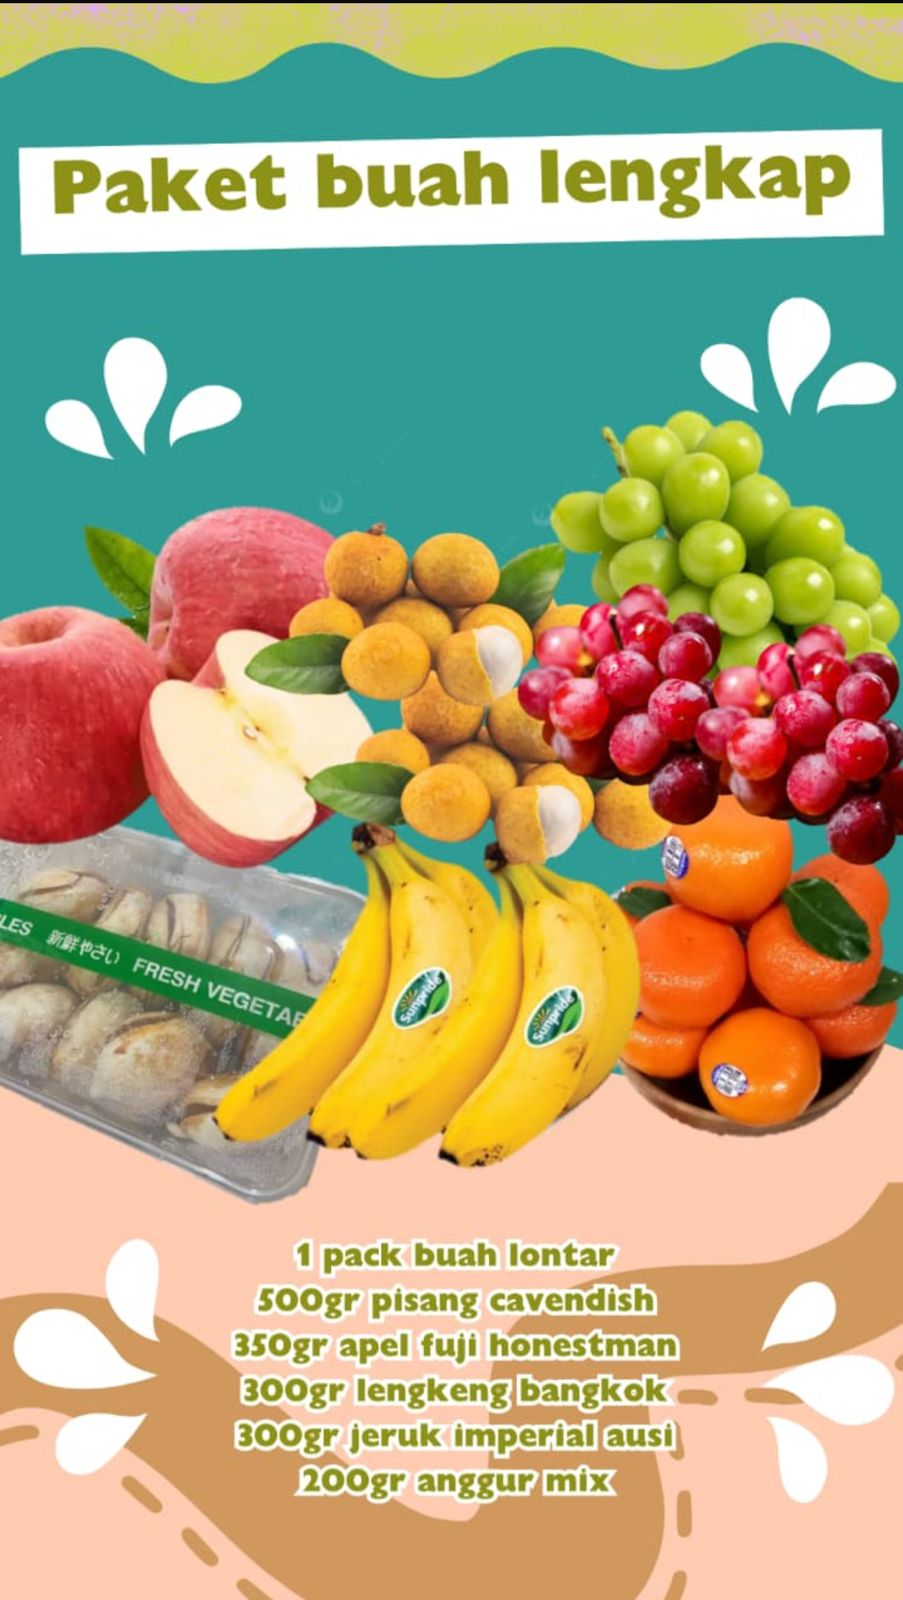
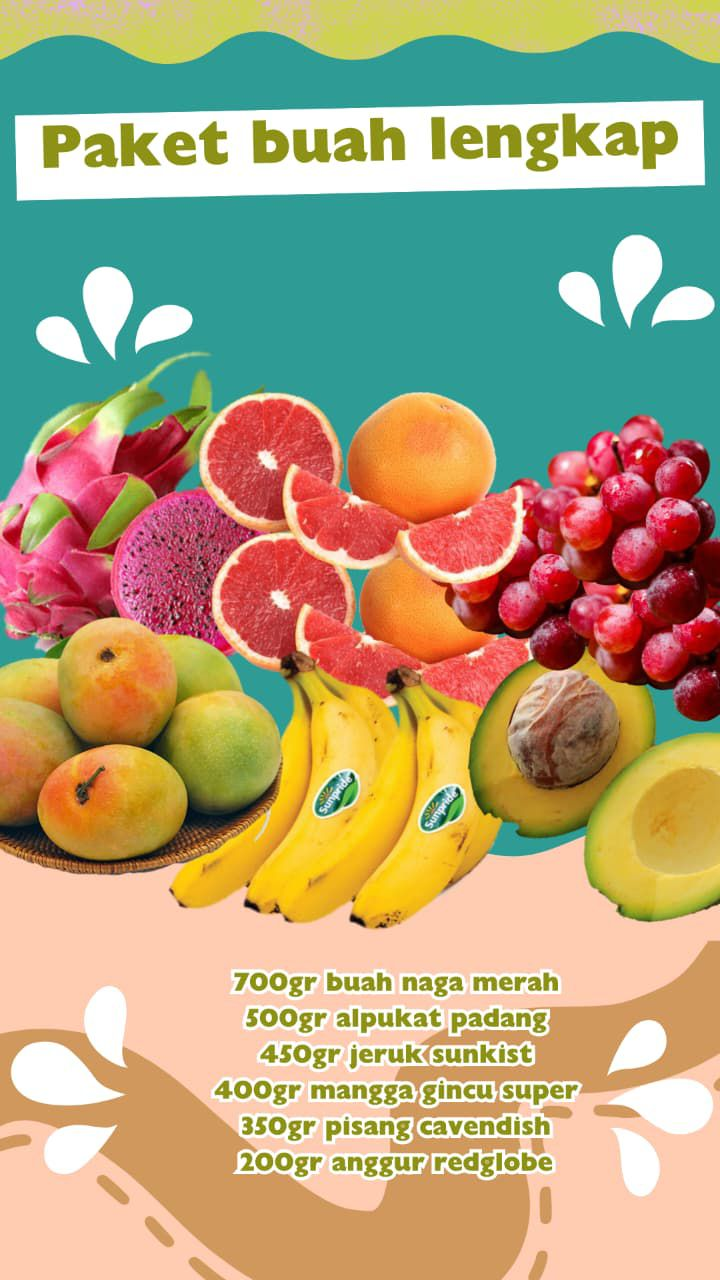
Add files via upload

diff --git a/index.html b/index.html
@@ -733,6 +733,71 @@
         <a href="https://wa.me/6281122332414?text=Halo%2C%20saya%20ingin%20memesan%20Jeruk%20Wogan%20Honestman" target="_blank" rel="noopener" class="btn-order" onclick="showNotification('Jeruk Wogan Honestman')">Order Sekarang</a>
       </div>
     </section>
+	
+	<!-- Card: Blueberry -->
+    <section class="card bg-white shadow-md overflow-hidden flex flex-col">
+      <img 
+        src="Blueberry.jpeg" 
+        alt="Blueberry" 
+        loading="lazy" class="w-full h-48 object-cover" onerror="this.onerror=null;this.src='https://placehold.co/600x400/png?text=Image+Not+Available';" />
+      <div class="p-4 flex flex-col flex-grow">
+        <h2 class="font-bold text-xl text-green-800 mb-2">Blueberry</h2>
+        <p class="text-green-700 flex-grow mb-4 text-sm">Rp 38.000 / pack (berat 125gr)</p>
+        <a href="https://wa.me/6281122332414?text=Halo%2C%20saya%20ingin%20memesan%20Blueberry" target="_blank" rel="noopener" class="btn-order" onclick="showNotification('Blueberry')">Order Sekarang</a>
+      </div>
+    </section>
+	
+	<!-- Card: Anggur Shine Muscat Buket Premium -->
+    <section class="card bg-white shadow-md overflow-hidden flex flex-col">
+      <img 
+        src="Anggur Shine Muscat Buket Premium.jpeg" 
+        alt="Anggur Shine Muscat Buket Premium" 
+        loading="lazy" class="w-full h-48 object-cover" onerror="this.onerror=null;this.src='https://placehold.co/600x400/png?text=Image+Not+Available';" />
+      <div class="p-4 flex flex-col flex-grow">
+        <h2 class="font-bold text-xl text-green-800 mb-2">Anggur Shine Muscat Buket Premium</h2>
+        <p class="text-green-700 flex-grow mb-4 text-sm">Rp 72.000 / kg</p>
+        <a href="https://wa.me/6281122332414?text=Halo%2C%20saya%20ingin%20memesan%20Anggur%20Shine%20Muscat%20Buket%20Premium" target="_blank" rel="noopener" class="btn-order" onclick="showNotification('Anggur Shine Muscat Buket Premium')">Order Sekarang</a>
+      </div>
+    </section>
+	
+	<!-- Card: Anggur Shine Muscat Sekat Premium -->
+    <section class="card bg-white shadow-md overflow-hidden flex flex-col">
+      <img 
+        src="Anggur Shine Muscat Sekat Premium.jpeg" 
+        alt="Anggur Shine Muscat Sekat Premium" 
+        loading="lazy" class="w-full h-48 object-cover" onerror="this.onerror=null;this.src='https://placehold.co/600x400/png?text=Image+Not+Available';" />
+      <div class="p-4 flex flex-col flex-grow">
+        <h2 class="font-bold text-xl text-green-800 mb-2">Anggur Shine Muscat Sekat Premium</h2>
+        <p class="text-green-700 flex-grow mb-4 text-sm">Rp 70.000 / kg</p>
+        <a href="https://wa.me/6281122332414?text=Halo%2C%20saya%20ingin%20memesan%20Anggur%20Shine%20Muscat%20Sekat%20Premium" target="_blank" rel="noopener" class="btn-order" onclick="showNotification('Anggur Shine Muscat Sekat Premium')">Order Sekarang</a>
+      </div>
+    </section>
+	
+	<!-- Card: Mangga Gincu Keranjang -->
+    <section class="card bg-white shadow-md overflow-hidden flex flex-col">
+      <img 
+        src="Mangga Gincu Keranjang.jpeg" 
+        alt="Mangga Gincu Keranjang" 
+        loading="lazy" class="w-full h-48 object-cover" onerror="this.onerror=null;this.src='https://placehold.co/600x400/png?text=Image+Not+Available';" />
+      <div class="p-4 flex flex-col flex-grow">
+        <h2 class="font-bold text-xl text-green-800 mb-2">Mangga Gincu Keranjang</h2>
+        <p class="text-green-700 flex-grow mb-4 text-sm">Rp 132.000 / 3kg</p>
+        <a href="https://wa.me/6281122332414?text=Halo%2C%20saya%20ingin%20memesan%20Mangga%20Gincu%20Keranjang" target="_blank" rel="noopener" class="btn-order" onclick="showNotification('Mangga Gincu Keranjang')">Order Sekarang</a>
+      </div>
+    </section>
+	
+	<!-- Card: Mangga Gincu Super -->
+    <section class="card bg-white shadow-md overflow-hidden flex flex-col">
+      <img 
+        src="Mangga Gincu Super.jpeg" 
+        alt="Mangga Gincu Super" 
+        loading="lazy" class="w-full h-48 object-cover" onerror="this.onerror=null;this.src='https://placehold.co/600x400/png?text=Image+Not+Available';" />
+      <div class="p-4 flex flex-col flex-grow">
+        <h2 class="font-bold text-xl text-green-800 mb-2">Mangga Gincu Super</h2>
+        <p class="text-green-700 flex-grow mb-4 text-sm">Rp 48.000 / kg</p>
+        <a href="https://wa.me/6281122332414?text=Halo%2C%20saya%20ingin%20memesan%20Mangga%20Gincu%20Super" target="_blank" rel="noopener" class="btn-order" onclick="showNotification('Mangga Gincu Super')">Order Sekarang</a>
+      </div>
+    </section>
 
 	<!-- Card: Anggur Sweet Saphire  Anggur Jari -->
     <section class="card bg-white shadow-md overflow-hidden flex flex-col">
@@ -744,6 +809,71 @@
         <h2 class="font-bold text-xl text-green-800 mb-2">Anggur Sweet Saphire / Anggur Jari</h2>
         <p class="text-green-700 flex-grow mb-4 text-sm">Rp 48.000 / pack</p>
         <a href="https://wa.me/6281122332414?text=Halo%2C%20saya%20ingin%20memesan%20Anggur%20Sweet%20Saphire" target="_blank" rel="noopener" class="btn-order" onclick="showNotification('Anggur Sweet Saphire')">Order Sekarang</a>
+      </div>
+    </section>
+	
+	<!-- Card: Plum Hijau -->
+    <section class="card bg-white shadow-md overflow-hidden flex flex-col">
+      <img 
+        src="Plum Hijau.jpeg" 
+        alt="Plum Hijau" 
+        loading="lazy" class="w-full h-48 object-cover" onerror="this.onerror=null;this.src='https://placehold.co/600x400/png?text=Image+Not+Available';" />
+      <div class="p-4 flex flex-col flex-grow">
+        <h2 class="font-bold text-xl text-green-800 mb-2">Plum Hijau</h2>
+        <p class="text-green-700 flex-grow mb-4 text-sm">Rp 40.000 / pack</p>
+        <a href="https://wa.me/6281122332414?text=Halo%2C%20saya%20ingin%20memesan%20Plum%20Hijau" target="_blank" rel="noopener" class="btn-order" onclick="showNotification('Plum Hijau')">Order Sekarang</a>
+      </div>
+    </section>
+	
+	<!-- Card: Sugar Plum -->
+    <section class="card bg-white shadow-md overflow-hidden flex flex-col">
+      <img 
+        src="Sugar Plum.jpeg" 
+        alt="Sugar Plum" 
+        loading="lazy" class="w-full h-48 object-cover" onerror="this.onerror=null;this.src='https://placehold.co/600x400/png?text=Image+Not+Available';" />
+      <div class="p-4 flex flex-col flex-grow">
+        <h2 class="font-bold text-xl text-green-800 mb-2">Sugar Plum</h2>
+        <p class="text-green-700 flex-grow mb-4 text-sm">Rp 40.000 / pack</p>
+        <a href="https://wa.me/6281122332414?text=Halo%2C%20saya%20ingin%20memesan%20Sugar%20Plum" target="_blank" rel="noopener" class="btn-order" onclick="showNotification('Sugar Plum')">Order Sekarang</a>
+      </div>
+    </section>
+	
+	<!-- Card: Kiwi Merah -->
+    <section class="card bg-white shadow-md overflow-hidden flex flex-col">
+      <img 
+        src="Kiwi Merah.jpeg" 
+        alt="Kiwi Merah" 
+        loading="lazy" class="w-full h-48 object-cover" onerror="this.onerror=null;this.src='https://placehold.co/600x400/png?text=Image+Not+Available';" />
+      <div class="p-4 flex flex-col flex-grow">
+        <h2 class="font-bold text-xl text-green-800 mb-2">Kiwi Merah</h2>
+        <p class="text-green-700 flex-grow mb-4 text-sm">Rp 45.000 / pack</p>
+        <a href="https://wa.me/6281122332414?text=Halo%2C%20saya%20ingin%20memesan%20Kiwi%20Merah" target="_blank" rel="noopener" class="btn-order" onclick="showNotification('Kiwi Merah')">Order Sekarang</a>
+      </div>
+    </section>
+	
+	<!-- Card: Alpukat Mentega Padang -->
+    <section class="card bg-white shadow-md overflow-hidden flex flex-col">
+      <img 
+        src="Alpukat Mentega Padang.jpeg" 
+        alt="Alpukat Mentega Padang" 
+        loading="lazy" class="w-full h-48 object-cover" onerror="this.onerror=null;this.src='https://placehold.co/600x400/png?text=Image+Not+Available';" />
+      <div class="p-4 flex flex-col flex-grow">
+        <h2 class="font-bold text-xl text-green-800 mb-2">Alpukat Mentega Padang</h2>
+        <p class="text-green-700 flex-grow mb-4 text-sm">Rp 30.000 / kg</p>
+        <a href="https://wa.me/6281122332414?text=Halo%2C%20saya%20ingin%20memesan%20Alpukat%20Mentega%20Padang" target="_blank" rel="noopener" class="btn-order" onclick="showNotification('Alpukat Mentega Padang')">Order Sekarang</a>
+      </div>
+    </section>
+	
+	<!-- Card: Alpukat Mentega Garut -->
+    <section class="card bg-white shadow-md overflow-hidden flex flex-col">
+      <img 
+        src="Alpukat Mentega Garut.jpeg" 
+        alt="Alpukat Mentega Garut" 
+        loading="lazy" class="w-full h-48 object-cover" onerror="this.onerror=null;this.src='https://placehold.co/600x400/png?text=Image+Not+Available';" />
+      <div class="p-4 flex flex-col flex-grow">
+        <h2 class="font-bold text-xl text-green-800 mb-2">Alpukat Mentega Garut</h2>
+        <p class="text-green-700 flex-grow mb-4 text-sm">Rp 28.000 / kg</p>
+        <a href="https://wa.me/6281122332414?text=Halo%2C%20saya%20ingin%20memesan%20Alpukat%20Mentega%20Garut" target="_blank" rel="noopener" class="btn-order" onclick="showNotification('Alpukat Mentega Garut')">Order Sekarang</a>
       </div>
     </section>
 
@@ -776,12 +906,12 @@
       <div class="p-4 flex flex-col flex-grow">
         <h2 class="font-bold text-xl text-green-800 mb-2">Paket Buah Lengkap</h2>
         <ul class="text-green-700 flex-grow space-y-1 text-sm mb-4">
-          <li>1 pack Buah Lontar</li>
-          <li>500gr Pisang Cavendish</li>
-          <li>350gr Apel Fuji Honestman</li>
-          <li>300gr Lengkeng Bangkok</li>
-          <li>300gr Jeruk Imperial Ausie</li>
-          <li>200gr Anggur Mix</li>
+          <li>700gr Buah Naga Merah</li>
+          <li>500gr Alpukat Padang</li>
+          <li>450gr Jeruk Sunkist</li>
+          <li>400gr Mangga Gincu Super</li>
+          <li>350gr Pisang Cavendish</li>
+          <li>200gr Anggur Redglobe</li>
         </ul>
         <p class="text-green-700 flex-grow mb-4 text-sm">Rp 85.000</p>
         <a href="https://wa.me/6281122332414?text=Halo%2C%20saya%20ingin%20memesan%20Paket%20Buah%20Lengkap" target="_blank" rel="noopener" class="btn-order" onclick="showNotification('Paket Buah Lengkap')">Order Sekarang</a>
